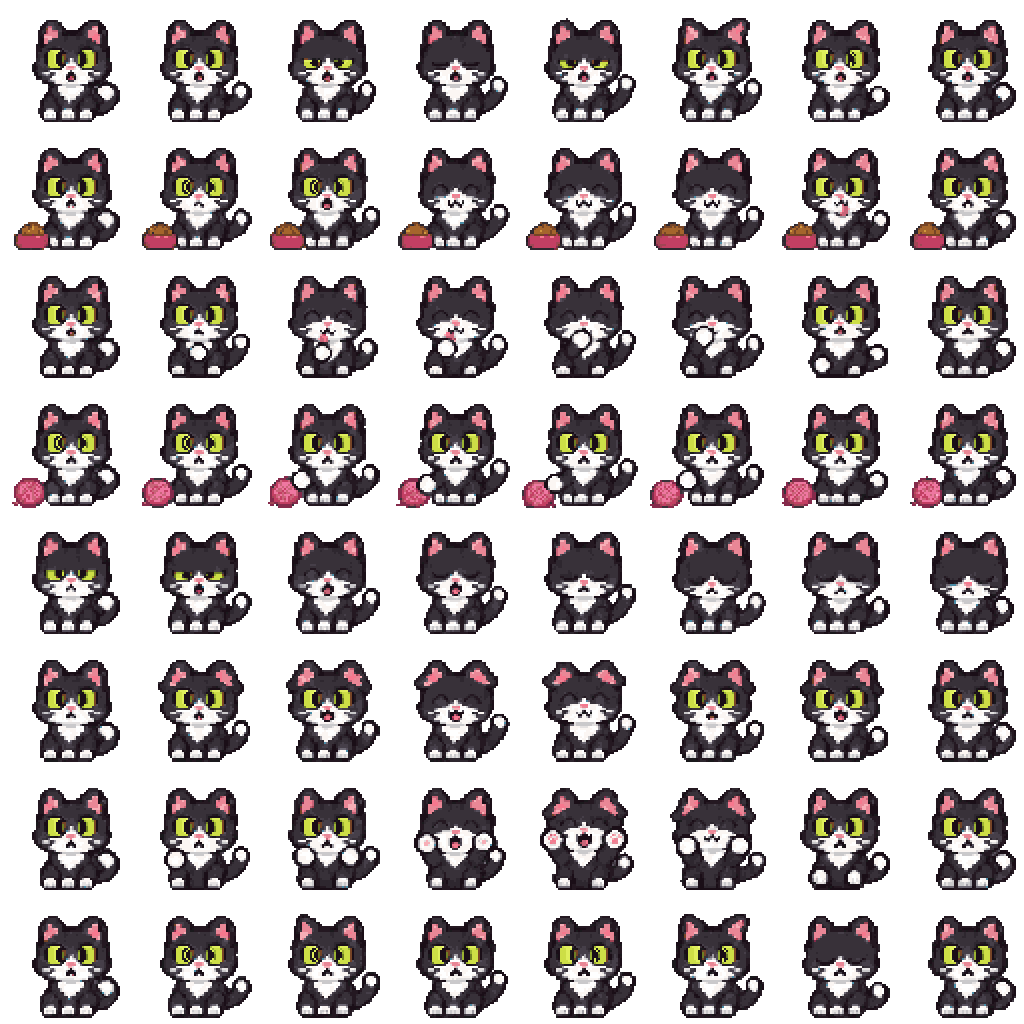
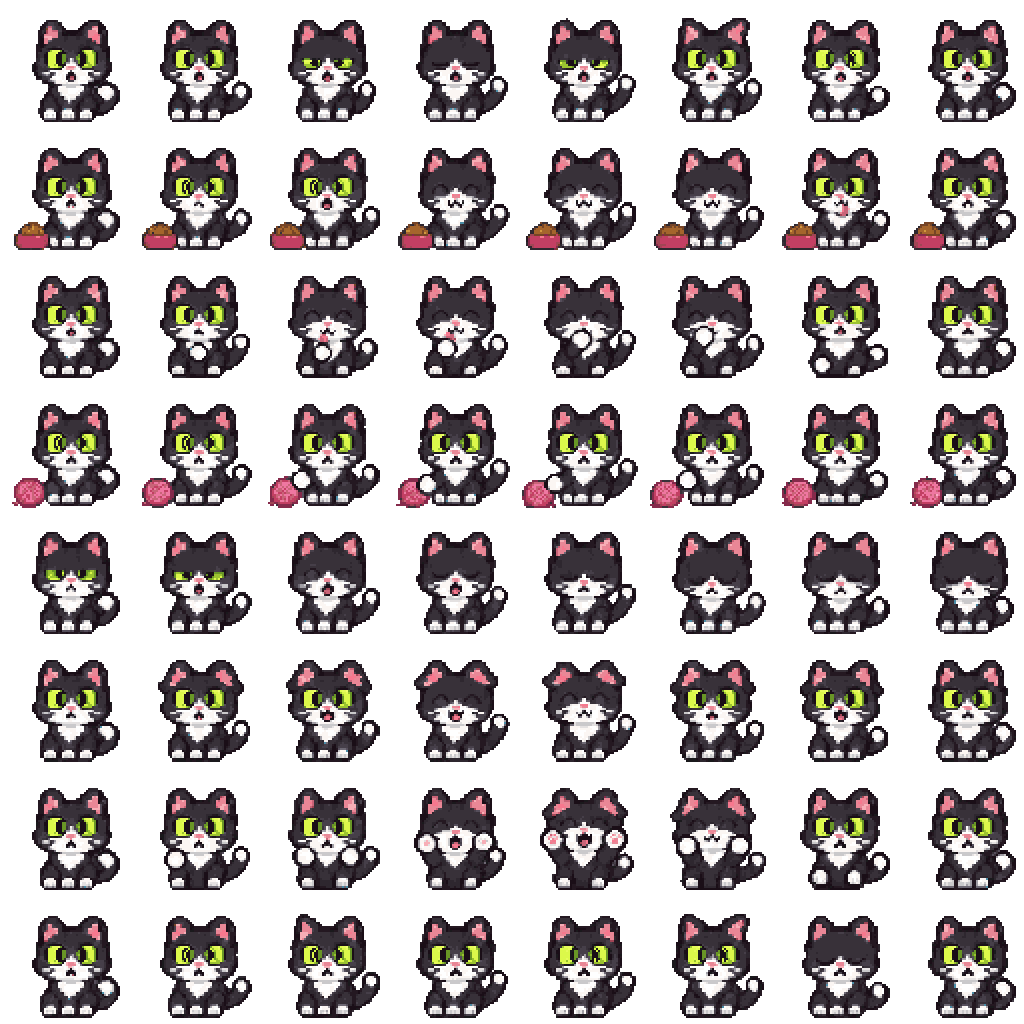
Lock kitten iris to original source colors and reject eye artifacts

diff --git a/tests/kitten-pixel-qa.test.js b/tests/kitten-pixel-qa.test.js
@@ -66,3 +66,56 @@ test('feet share ground anchor within one logical pixel; no whole-body bob',()=>
   }
   assert.ok(Math.max(...feet)-Math.min(...feet)<=2);
 });
+
+test('all 40 open-eye poses retain the original kitten iris RGB within 2 RGB points per channel',()=>{
+  // Original user-approved momo-kitten.png sampled at 64 logical pixels.
+  // Green/yellow iris median is (219,247,73), independent of the remaster.
+  const sourceRgb=[219,247,73];
+  const openFrames=[0,1,5,6,7,8,9,10,14,15,16,17,22,23,24,25,26,27,28,29,30,31,
+    40,41,42,45,46,47,48,49,50,54,55,56,57,58,59,60,61,63];
+  for(const frame of openFrames) {
+    const col=frame%8,row=Math.floor(frame/8),found=[[],[],[]];
+    for(let y=46;y<68;y+=2) for(let x=44;x<98;x+=2) {
+      const off=((row*128+y)*base.width+col*128+x)*4;
+      const [r,g,b,a]=base.pixels.subarray(off,off+4);
+      if(a===255&&g>135&&g>=r-10&&g>b*1.35&&b<195) {
+        found[0].push(r);found[1].push(g);found[2].push(b);
+      }
+    }
+    assert.ok(found[0].length>=50,'missing green iris in open frame '+frame);
+    for(let k=0;k<3;k++){
+      found[k].sort((a,b)=>a-b);
+      const median=found[k][Math.floor(found[k].length/2)];
+      assert.ok(Math.abs(median-sourceRgb[k])<=2,
+        'original iris color changed in frame '+frame+', RGB channel '+k+
+        ': expected '+sourceRgb[k]+' got '+median);
+    }
+  }
+});
+
+test('64-frame master and every kitten motion atlas have zero brown/teal/purple eye pixels',()=>{
+  const forbidden=new Set([
+    '118,68,38','165,101,44','210,152,63',
+    '75,140,166','153,208,227',
+    '133,42,75','195,63,99','239,119,161',
+  ]);
+  const images=[['master',base]];
+  for(const action of MOTION_ACTIONS)
+    images.push([action,load(motionAsset(action,'kitten').src)]);
+  let total=0;
+  for(const [name,im] of images) {
+    const frames=(im.width/128)*(im.height/128);
+    for(let f=0;f<frames;f++) {
+      const col=f%8,row=Math.floor(f/8);
+      for(const [x0,y0,x1,y1] of [[22,23,35,34],[36,23,49,34]])
+        for(let y=y0*2;y<y1*2;y+=2)for(let x=x0*2;x<x1*2;x+=2) {
+          const i=((row*128+y)*im.width+col*128+x)*4;
+          const key=im.pixels[i]+','+im.pixels[i+1]+','+im.pixels[i+2];
+          assert.ok(!forbidden.has(key),
+            'eye material changed color in '+name+' frame '+f+' pixel '+x+','+y+' RGB '+key);
+        }
+      total++;
+    }
+  }
+  assert.ok(total>=480,'expected full action coverage');
+});

diff --git a/tests/sprite-palette.test.js b/tests/sprite-palette.test.js
@@ -27,12 +27,25 @@ function palette(stage) {
   }
   return result;
 }
-test('grown cat follows the selected kitten palette without warm brown fur or dull gold eyes',()=>{
+test('adult and kitten preserve yellow-green eye hue while retaining source-specific brightness',()=>{
   const kitten=palette('kitten'),adult=palette('adult');
+  // Kitten's original authorized lime iris is brighter than adult's.
+  // Compare stage eye hue, not exact RGB luminance. Eye brightness and
+  // eye-region material purity are separately source-locked in Python QA.
   for(const material of Object.keys(bands)) {
-    const tolerance=material==='eyes'?24:10;
-    for(let c=0;c<3;c++) assert.ok(Math.abs(adult[material][c]-kitten[material][c])<=tolerance,`${material}: ${adult[material]} vs ${kitten[material]}`);
+    if(material==='eyes')continue;
+    for(let c=0;c<3;c++) assert.ok(
+      Math.abs(adult[material][c]-kitten[material][c])<=10,
+      material+': '+adult[material]+' vs '+kitten[material]);
   }
+  const hue=([r,g,b])=>{
+    const max=Math.max(r,g,b),min=Math.min(r,g,b),d=max-min;
+    if(!d)return 0;
+    const h=max===r?((g-b)/d)%6:max===g?(b-r)/d+2:(r-g)/d+4;
+    return (h*60+360)%360;
+  };
+  const delta=Math.abs(hue(adult.eyes)-hue(kitten.eyes));
+  assert.ok(Math.min(delta,360-delta)<=12,'adult and kitten hue difference exceeds 12 degrees');
   assert.ok(adult.fur[2]>adult.fur[1],'fur retains cool charcoal undertone');
   assert.ok(adult.eyes[1]>adult.eyes[0],'eyes remain yellow-green rather than gold');
   assert.ok(Math.min(...adult.white)>=235,'white markings remain bright');

diff --git a/index.html b/index.html
@@ -1,5 +1,5 @@
 <!doctype html>
-<html lang="zh-Hant" data-version="0.10.2">
+<html lang="zh-Hant" data-version="0.10.3">
 <head>
   <meta charset="UTF-8">
   <meta name="viewport" content="width=device-width,initial-scale=1">

diff --git a/scripts/remaster_kitten_pixels.py b/scripts/remaster_kitten_pixels.py
@@ -25,8 +25,8 @@ PALETTE = np.array([
     [70, 63, 73], [85, 78, 91], [110, 105, 116],
     [161, 158, 165], [202, 201, 203], [228, 225, 225],
     [251, 246, 243], [255, 255, 255],
-    [26, 25, 28], [110, 126, 36], [155, 179, 50],
-    [205, 222, 70], [223, 238, 92], [237, 248, 124],
+    [26, 25, 28], [105, 150, 38], [155, 195, 48],
+    [220, 248, 74], [230, 251, 90], [241, 253, 110],
     [162, 69, 85], [201, 100, 120], [233, 135, 150],
     [247, 174, 182], [247, 120, 142],
     [118, 68, 38], [165, 101, 44], [210, 152, 63],
@@ -56,16 +56,30 @@ def quantize(tile: Image.Image) -> Image.Image:
         samples = rgb[visible]
         lab = to_lab(samples)
         distances = ((lab[:, None, :] - PALETTE_LAB[None, :, :])**2).sum(axis=2)
+        rows, cols = np.where(visible)
+        # RGB on the face may not be assigned food-bowl brown, blue water or
+        # yarn-pink palettes. Old global nearest-palette selection produced
+        # brown eye borders and sporadic cyan cheek pixels.
+        face=(rows>=17)&(rows<43)&(cols>=17)&(cols<54)
+        distances[face, 23:30] = np.inf
+        distances[face, 30:32] = np.inf
         closest = np.argmin(distances, axis=1)
-        # Enforce green-yellow iris materials only from the eye shades. This
-        # keeps mixed/blurred near-green shades from contaminating dark fur.
-        is_iris = ((samples[:,1].astype(int)>135)
-                   & (samples[:,1].astype(int)>=samples[:,0].astype(int)-10)
-                   & (samples[:,1].astype(int)>samples[:,2].astype(int)*1.35)
-                   & (samples[:,2]<195))
+        # Preserve the source kitten's yellow-green eye pigments. Older v3
+        # classified dark olive boundary pixels as brown (e.g. #64530A).
+        # Only classify such ambiguous pigments within the actual eye sockets,
+        # never the surrounding charcoal fur or food/yarn props.
+        eye_roi = (rows>=23)&(rows<34)&(
+            ((cols>=22)&(cols<35))|((cols>=36)&(cols<49)))
+        r=samples[:,0].astype(np.int16)
+        g=samples[:,1].astype(np.int16)
+        b=samples[:,2].astype(np.int16)
+        green=(g>135)&(g>=r-10)&(g>b*1.35)&(b<195)
+        dark_olive=eye_roi & (g>=49)&(r>=45)&(b<100)&(
+            g>=r*0.56)&(g>b*1.4)&(r>b*1.25)
+        is_iris=green|dark_olive
         if is_iris.any():
-            sub = distances[is_iris][:, IRIS_INDICES]
-            closest[is_iris] = IRIS_INDICES[np.argmin(sub, axis=1)]
+            sub=distances[is_iris][:,IRIS_INDICES]
+            closest[is_iris]=IRIS_INDICES[np.argmin(sub,axis=1)]
         out[visible, :3] = PALETTE[closest]
         out[visible, 3] = 255
     return Image.fromarray(out, 'RGBA')
@@ -88,7 +102,7 @@ def move_pupil(eye, delta):
     pixels=np.array(eye,copy=True)
     h,w=pixels.shape[:2]
     # Recolor the dark pupil interior with the local lime tone, not the rim.
-    iris_color=np.array([223,238,92,255],dtype=np.uint8)
+    iris_color=np.array([220,248,74,255],dtype=np.uint8)
     pupil=np.zeros((h,w),bool)
     for y in range(3,min(h,10)):
         for x in range(3,min(w-2,10)):
@@ -105,14 +119,14 @@ def move_pupil(eye, delta):
             pixels[y,nx]=np.array([26,25,28,255],dtype=np.uint8)
     return pixels
 
-def normalize_eyes(tiles):
+def normalize_eyes(tiles, raw_tiles):
     original=tiles[CANONICAL_OPEN_FRAME]
     template=np.array(original,copy=True)
     normalized=[]
     open_frames=[]
     for frame,tile in enumerate(tiles):
         a=np.array(tile,copy=True)
-        if iris_count_source(tile)>OPEN_THRESHOLD or (frame in GAZE_RIGHT and iris_count_source(tile)>35):
+        if iris_count_source(raw_tiles[frame])>OPEN_THRESHOLD:
             gaze=-1 if frame in GAZE_LEFT else 1 if frame in GAZE_RIGHT else 0
             for x0,y0,x1,y1 in EYE_BOXES:
                 patch=template[y0:y1,x0:x1].copy()
@@ -125,6 +139,7 @@ def normalize_eyes(tiles):
 def main():
     source=Image.open(SOURCE).convert('RGBA')
     tiles=[]
+    raw_tiles=[]
     for i in range(64):
         col,row=i%GRID,i//GRID
         bounds=tuple(round(v) for v in (
@@ -133,8 +148,9 @@ def main():
         # Crop to an exact cell first (old v2 has 1254/8 nonintegral cells).
         # Never use linear/cubic interpolation on pixel art.
         tile=source.crop(bounds).resize((LOGICAL,LOGICAL),Image.Resampling.NEAREST)
+        raw_tiles.append(tile)
         tiles.append(quantize(tile))
-    tiles,open_frames=normalize_eyes(tiles)
+    tiles,open_frames=normalize_eyes(tiles,raw_tiles)
     atlas=Image.new('RGBA',(GRID*CELL,GRID*CELL))
     for i,tile in enumerate(tiles):
         atlas.alpha_composite(tile.resize((CELL,CELL),Image.Resampling.NEAREST),

diff --git a/scripts/qa-kitten-source-identity.py b/scripts/qa-kitten-source-identity.py
@@ -35,3 +35,61 @@ assert mean<=12 and p95<=25, ('palette drift',mean,p95)
 print('KITTEN_SOURCE_IDENTITY_PASS',
       'frames=64','min_IoU='+str(round(min(iou),3)),
       'avg_Lab8='+str(round(mean,2)),'P95_Lab8='+str(round(p95,2)))
+
+# Pixel-color acceptance tied to the original uploaded kitten, not merely the
+# remastered atlas: hue, brightness, material isolation, and all action sheets.
+from collections import Counter
+original_master=Image.open(ASSETS/'momo-kitten.png').convert('RGBA')
+reference=np.array(original_master.resize((64,64),Image.Resampling.NEAREST))
+final_atlas=Image.open(ASSETS/'momo-kitten-64-v3.png').convert('RGBA')
+open_frames=[
+    0,1,5,6,7,8,9,10,14,15,16,17,22,23,24,25,26,27,28,29,30,31,
+    40,41,42,45,46,47,48,49,50,54,55,56,57,58,59,60,61,63
+]
+eye_boxes=[(22,23,35,34),(36,23,49,34)]
+forbidden={
+    (118,68,38), (165,101,44), (210,152,63),
+    (75,140,166), (153,208,227),
+    (133,42,75), (195,63,99), (239,119,161),
+}
+def iris_pixels(tile):
+    face=tile[23:34,22:49].astype(np.int16)
+    r,g,b,a=face.transpose(2,0,1)
+    iris=(g>135)&(g>=r-10)&(g>b*1.35)&(b<195)&(a>=128)
+    return face[:,:,:3][iris]
+
+reference_iris=iris_pixels(reference)
+reference_median=np.median(reference_iris,axis=0)
+assert len(reference_iris)>20, 'Original reference does not have valid visible irises'
+stage_medians=[]
+for frame in open_frames:
+    col,row=frame%8,frame//8
+    tile=np.array(final_atlas.crop((col*128,row*128,(col+1)*128,(row+1)*128))
+                               .resize((64,64),Image.Resampling.NEAREST))
+    pixels=iris_pixels(tile)
+    assert len(pixels)>=50, ('eye lost iris on open pose',frame,len(pixels))
+    median=np.median(pixels,axis=0)
+    assert np.max(np.abs(median-reference_median))<=2, (
+        'iris changed color vs fixed original kitten',frame,reference_median,median)
+    stage_medians.append(tuple(median.astype(int)))
+bad_colors=0
+inspected_frames=0
+for sheet in [final_atlas,*sorted((ASSETS/'momo-motions-preview/kitten').glob('*.png'))]:
+    image=np.asarray(sheet.convert('RGBA') if isinstance(sheet,Image.Image)
+                     else Image.open(sheet).convert('RGBA'))
+    for cy in range(image.shape[0]//128):
+        for cx in range(image.shape[1]//128):
+            tile=image[cy*128:(cy+1)*128,cx*128:(cx+1)*128]
+            inspected_frames+=1
+            for x0,y0,x1,y1 in eye_boxes:
+                area=tile[y0*2:y1*2,x0*2:x1*2,:3].reshape(-1,3)
+                counts=Counter(map(tuple,area.tolist()))
+                for bad in forbidden:
+                    bad_colors+=counts[bad]
+assert bad_colors==0, ('unexpected brown/cyan/purple in eye sockets',bad_colors)
+print('KITTEN_EYE_COLOR_ACCEPTANCE_PASS',
+      'reference_median='+str(reference_median.astype(int).tolist()),
+      'remaster_medians='+str(sorted(set(stage_medians))),
+      'open_frames='+str(len(open_frames)),
+      'inspected_frames='+str(inspected_frames),
+      'forbidden_color_pixels='+str(bad_colors))

diff --git a/scripts/build-kitten-eye-review.py b/scripts/build-kitten-eye-review.py
@@ -1,0 +1,49 @@
+#!/usr/bin/env python3
+"""Reproducible original / discolored v0.10.2 / color-corrected eye close-ups."""
+from io import BytesIO
+from pathlib import Path
+from subprocess import check_output
+from PIL import Image, ImageDraw, ImageFont
+
+ROOT = Path(__file__).resolve().parents[1]
+ASSETS = ROOT / 'public' / 'assets'
+PREVIOUS = '0442226:public/assets/momo-kitten-64-v3.png'
+old=Image.open(BytesIO(check_output(['git','show',PREVIOUS],cwd=ROOT))).convert('RGBA')
+new=Image.open(ASSETS/'momo-kitten-64-v3.png').convert('RGBA')
+source=Image.open(ASSETS/'momo-kitten-64-v2.png').convert('RGBA')
+original=Image.open(ASSETS/'momo-kitten.png').convert('RGBA')
+W,H=1380,1130
+page=Image.new('RGB',(W,H),(243,238,230))
+draw=ImageDraw.Draw(page)
+try:
+    font=ImageFont.truetype('/System/Library/Fonts/Supplemental/Arial.ttf',23)
+    small=ImageFont.truetype('/System/Library/Fonts/Supplemental/Arial.ttf',17)
+except OSError:
+    font=ImageFont.load_default()
+    small=font
+headers=['Approved source / original poses', 'v0.10.2 | discolored eyes','v0.10.3 | restored lime iris']
+for c,header in enumerate(headers):
+    draw.text((18+c*455,18),header,fill=(38,34,38),font=font)
+for row,frame in enumerate([0,6,9,60]):
+    draw.text((18,56+row*264),'Frame '+str(frame),fill=(65,56,51),font=small)
+    x,y=frame%8,frame//8
+    pose=source.crop((round(x*source.width/8),round(y*source.height/8),
+                      round((x+1)*source.width/8),round((y+1)*source.height/8)))
+    oldpose=old.crop((x*128,y*128,(x+1)*128,(y+1)*128))
+    newpose=new.crop((x*128,y*128,(x+1)*128,(y+1)*128))
+    for col,im in enumerate([original if frame==0 else pose,oldpose,newpose]):
+        logical=im.resize((64,64),Image.Resampling.NEAREST)
+        face=logical.crop((15,18,54,40)).resize((390,220),Image.Resampling.NEAREST)
+        bg=Image.new('RGBA',face.size,(221,216,209,255))
+        bg.alpha_composite(face)
+        xx=18+col*455
+        yy=82+row*264
+        page.paste(bg.convert('RGB'),(xx,yy))
+        draw.rectangle((xx-1,yy-1,xx+391,yy+221),outline=(133,116,103),width=2)
+        label=('Original master' if frame==0 else 'Original v2 pose') if col==0 else (
+            'Before | brown iris artifacts' if col==1 else 'After | source-locked lime iris')
+        draw.text((xx,yy+225),label,fill=(68,60,54),font=small)
+out=ASSETS/'qa'/'momo-kitten-eye-acceptance-v0103.png'
+out.parent.mkdir(exist_ok=True,parents=True)
+page.save(out,optimize=True)
+print('Generated',out,page.size)

diff --git a/docs/RELEASE_0.10.3.md b/docs/RELEASE_0.10.3.md
@@ -1,0 +1,51 @@
+# v0.10.3｜幼貓虹膜變色修正與來源鎖定驗收
+
+日期：2026-11-06
+
+## 根因
+
+前版的通用色盤比對將幼貓眼睛的深黃綠像素錯誤映射到食物道具的棕色。
+例如原像素 (100,83,10)、(77,80,31) 被錯誤量化為 (118,68,38)。
+之前只測試色盤數量、Alpha 與眼睛位置，沒有確認眼睛區域的顏色材質，因此錯色未被攔截。
+
+## 修復
+
+- 眼睛深橄欖色只允許選擇幼貓虹膜的黃綠色調色盤，禁止棕色色票污染。
+- 臉部區域明確排除食物碗棕色、毛線球桃紅與飲水青色。
+- 虹膜色彩直接以公認的幼貓原圖 public/assets/momo-kitten.png 為參考，恢復亮黃綠眼色與原有深色瞳孔。
+- 睜眼與閉眼判斷改用量化前的原始像素，避免半閉眼誤判為睜眼。
+- 重新輸出幼貓 1024×1024 母圖和 19 組日常動作素材，保持 64×64 邏輯像素格、128×128 輸出格、最多 32 色及二值透明。
+- 成年貓圖集、角色身形、原始母圖、遊戲存檔、A/B/C 操作、非觸控顯示不變。
+
+## 驗收門檻與結果
+
+| 項目 | 門檻 | 實測 | 結果 |
+|---|---|---|---|
+| 虹膜來源色 | 個別睜眼影格虹膜 RGB 中位數與原始圖的每通道差異 ≤2／255 | 原圖 (219,247,73)，修正後 (220,248,74)，各通道僅差 1 | PASS |
+| 睜眼影格 | 所有睜眼影格均符合來源色 | 40／40 | PASS |
+| 禁止眼部錯色 | 褐色、異常青色與紫色道具色不得出現在眼框內 | 64 格母圖＋19 組圖集共 480 格，0 違規像素 | PASS |
+| 眼睛定位 | 睜眼眼框對齊、閉眼不得誤顯示虹膜 | 全部通過 | PASS |
+| Pixel 硬邊 | 2×2 實體像素同色，Alpha 只允許 0／255 | 全部通過 | PASS |
+| 身形外輪廓 | 64 格與上版 IoU ≥0.98 | 最小與平均皆 1.000 | PASS |
+| 非眼部顏色 | Lab8 平均差 ≤12、P95 ≤25 | 平均 6.02、P95 17.0 | PASS |
+| 遊戲操作 | A/B/C、非觸控、幼貓餵食、成長、睡眠及起床 | Mac Chrome 測試通過 | PASS |
+| 單元測試 | 全部通過 | 63／63 | PASS |
+
+## 美術比較圖
+
+- 放大對照圖：public/assets/qa/momo-kitten-eye-acceptance-v0103.png
+- 新版母圖：public/assets/momo-kitten-64-v3.png
+- 新版幼貓待機圖集：public/assets/momo-motions-preview/kitten/idle.png
+
+對照圖可用 python3 scripts/build-kitten-eye-review.py 重製，異常版本固定引用 Commit 0442226。對照圖只使用最近鄰縮放。
+
+## 回歸驗證
+
+- npm test
+- python3 scripts/qa-kitten-source-identity.py
+- python3 scripts/qa-kitten-browser.py
+- python3 scripts/qa-momo-motions.py
+
+## 驗收界線
+
+上述為可重現的圖片與程式技術驗收，不代表使用者已對眼神、表情或整套動畫給予人工美術簽核。19 組動作仍是從既有姿勢重組的預覽素材，部分影格會重複。正式動畫仍須人工逐格審核。

diff --git a/README.md b/README.md
@@ -4,7 +4,14 @@
 
 公開 Preview：<https://tamagotchi-uni-inspired-virtual-pet.vercel.app>
 
-> **現行版本 v0.10.2**，變更見 [docs/RELEASE_0.10.2.md](docs/RELEASE_0.10.2.md)（[v0.10.1](docs/RELEASE_0.10.1.md)）（[v0.10.0](docs/RELEASE_0.10.0.md)）（[v0.9.2](docs/RELEASE_0.9.2.md)）（[v0.9.1](docs/RELEASE_0.9.1.md)、[v0.9.0](docs/RELEASE_0.9.0.md)、[v0.8.2](docs/RELEASE_0.8.2.md)、[v0.8.1](docs/RELEASE_0.8.1.md)、[v0.8](docs/RELEASE_0.8.md)、[v0.7](docs/RELEASE_0.7.md)、[v0.6](docs/RELEASE_0.6.md)）。下方 v0.5 段落是歷史紀錄；操作與數值以 [docs/BALANCE.md](docs/BALANCE.md) 為準，驗收照 [docs/ACCEPTANCE_WEB.md](docs/ACCEPTANCE_WEB.md)。
+> **現行版本 v0.10.3**，變更見 [docs/RELEASE_0.10.3.md](docs/RELEASE_0.10.3.md)（[v0.10.2](docs/RELEASE_0.10.2.md)）（[v0.10.1](docs/RELEASE_0.10.1.md)）（[v0.10.0](docs/RELEASE_0.10.0.md)）（[v0.9.2](docs/RELEASE_0.9.2.md)）（[v0.9.1](docs/RELEASE_0.9.1.md)、[v0.9.0](docs/RELEASE_0.9.0.md)、[v0.8.2](docs/RELEASE_0.8.2.md)、[v0.8.1](docs/RELEASE_0.8.1.md)、[v0.8](docs/RELEASE_0.8.md)、[v0.7](docs/RELEASE_0.7.md)、[v0.6](docs/RELEASE_0.6.md)）。下方 v0.5 段落是歷史紀錄；操作與數值以 [docs/BALANCE.md](docs/BALANCE.md) 為準，驗收照 [docs/ACCEPTANCE_WEB.md](docs/ACCEPTANCE_WEB.md)。
+
+## v0.10.3：幼貓虹膜錯色修復（來源色強制驗收）
+
+- 修正深黃綠虹膜被誤配到棕色道具色盤，並禁止臉部出現青色／桃紅道具色。
+- 幼貓原始虹膜 RGB 中位數 (219,247,73)；新版 (220,248,74)，各通道色差僅 1／255。
+- 40 格睜眼姿勢及 480 格幼貓母圖／日常動畫通過「眼睛禁止錯色」驗收。
+- 產出原始／錯色／修正後的逐格放大圖，詳見 [v0.10.3 驗收報告](docs/RELEASE_0.10.3.md)。原角色與成年貓資料保留。
 
 ## v0.10.2：幼貓眼睛鎖定與硬邊 Pixel Art
 
